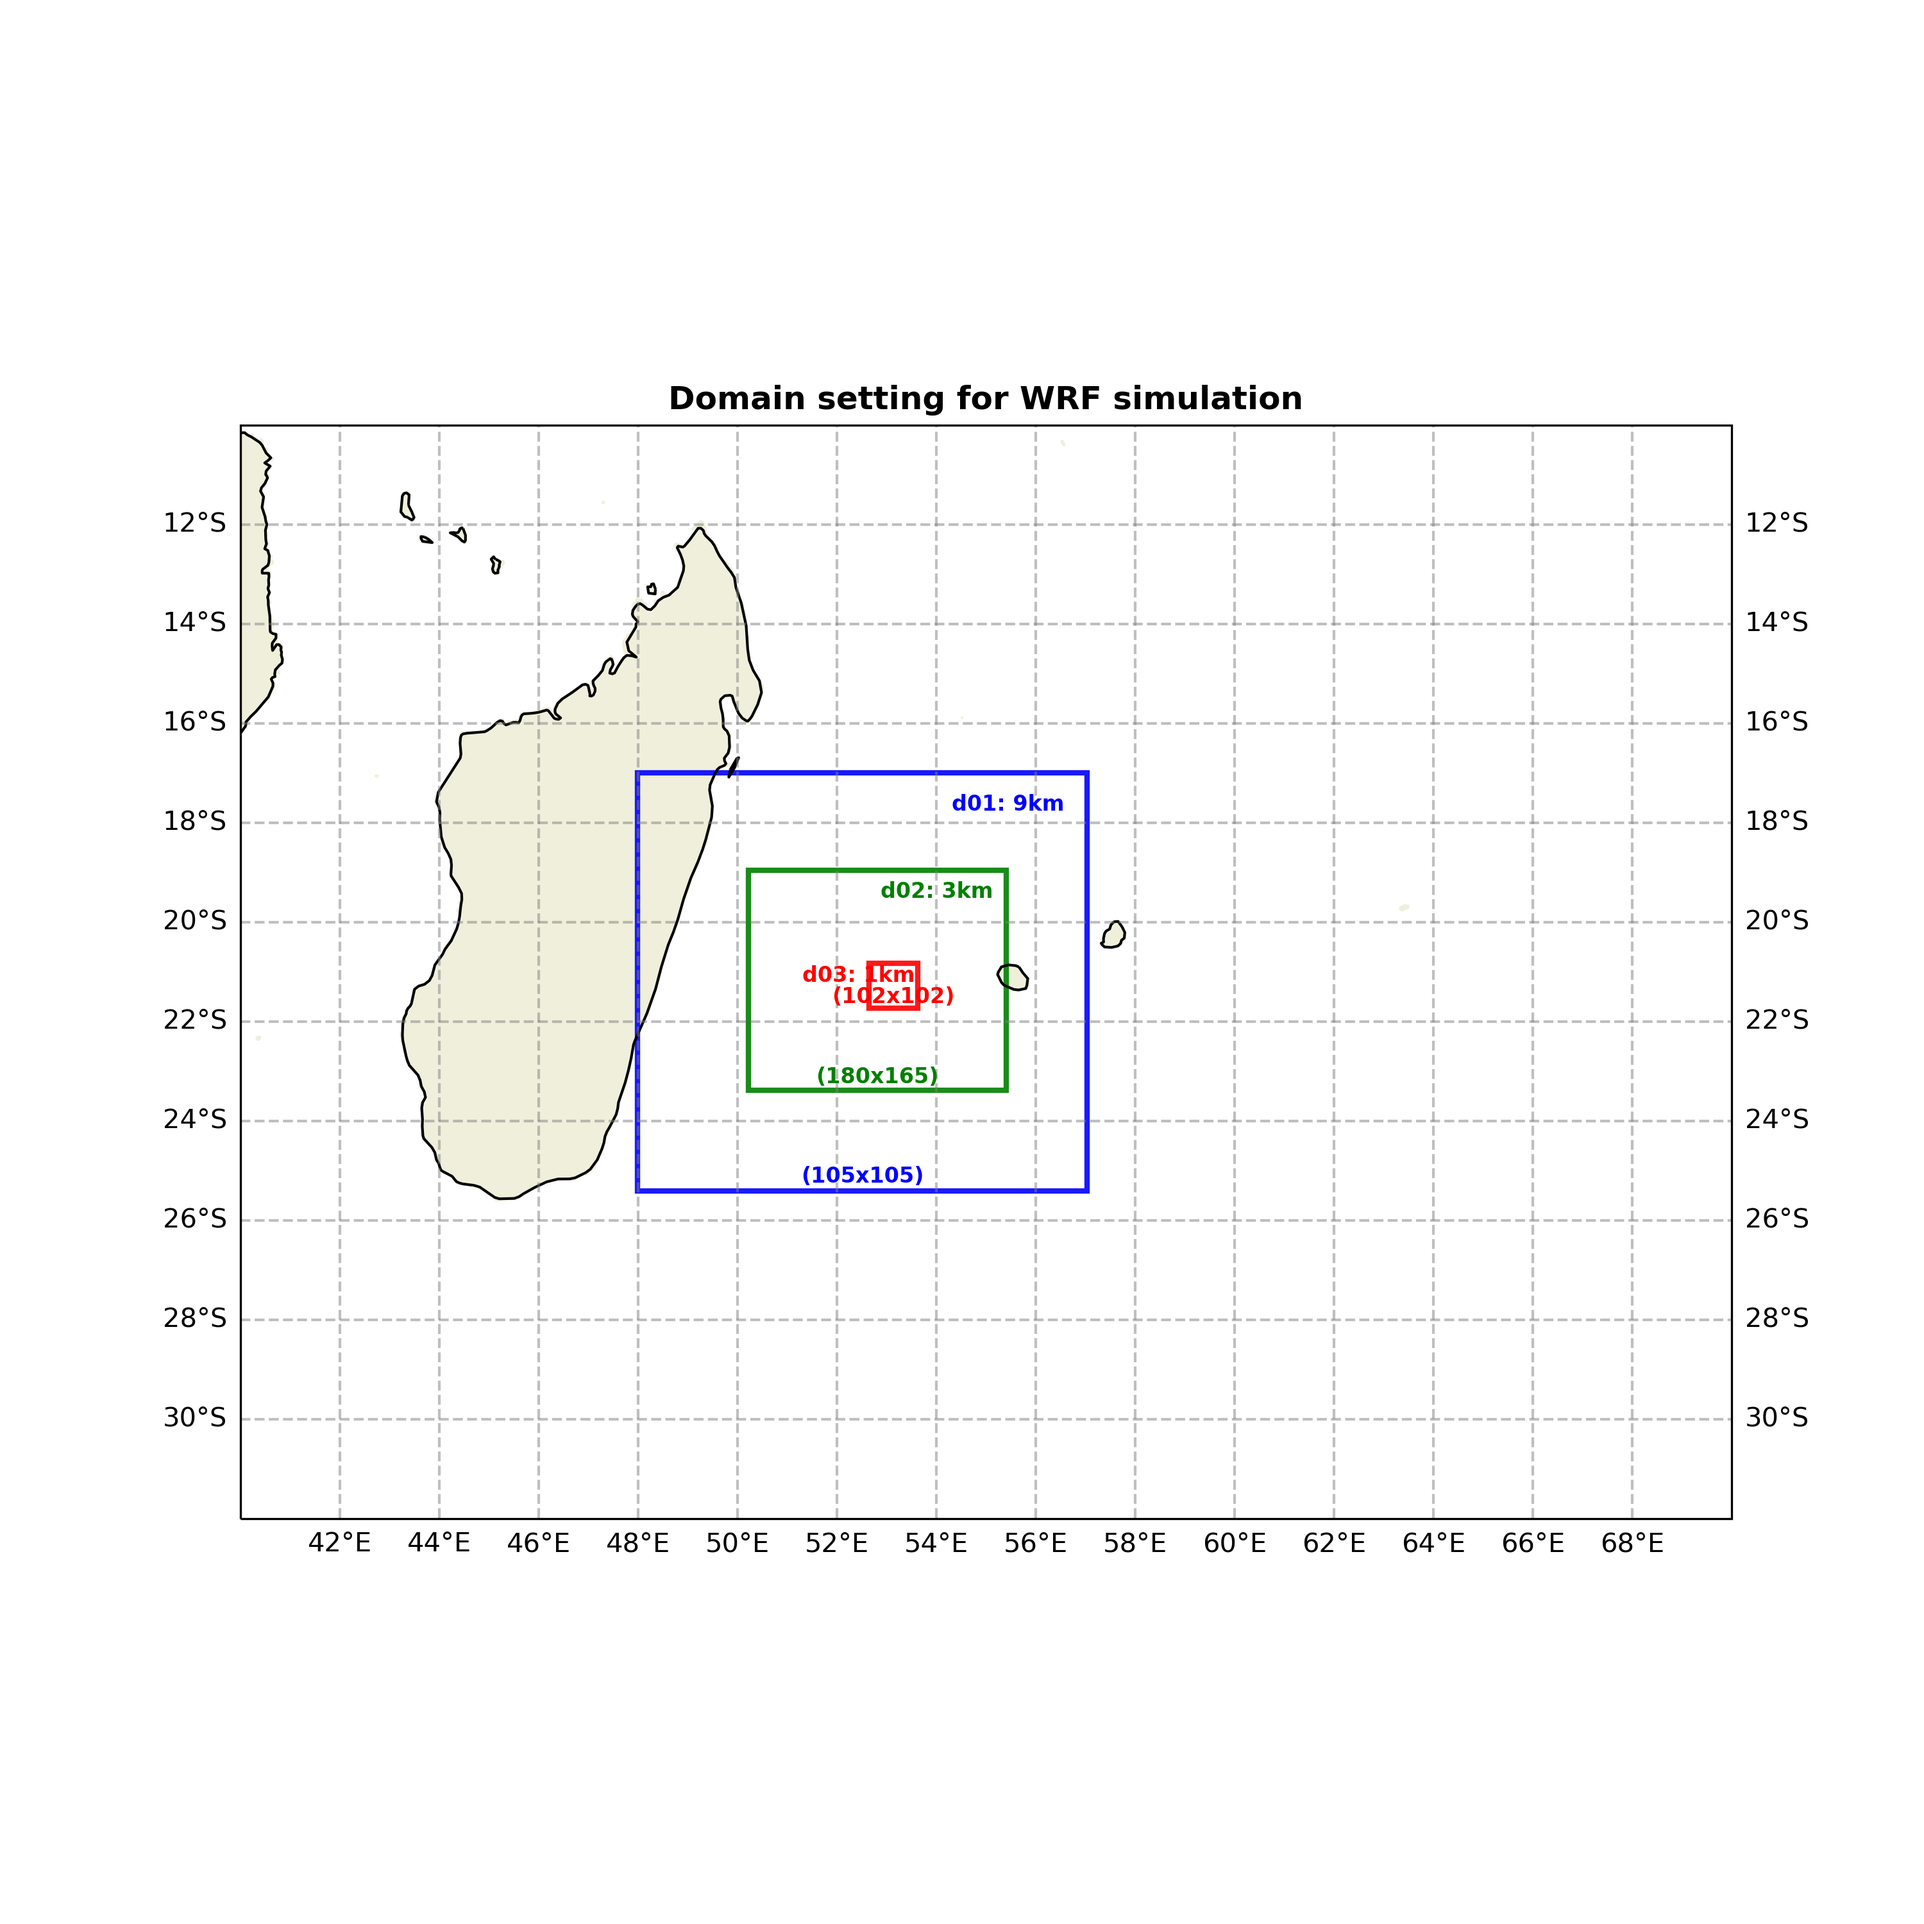
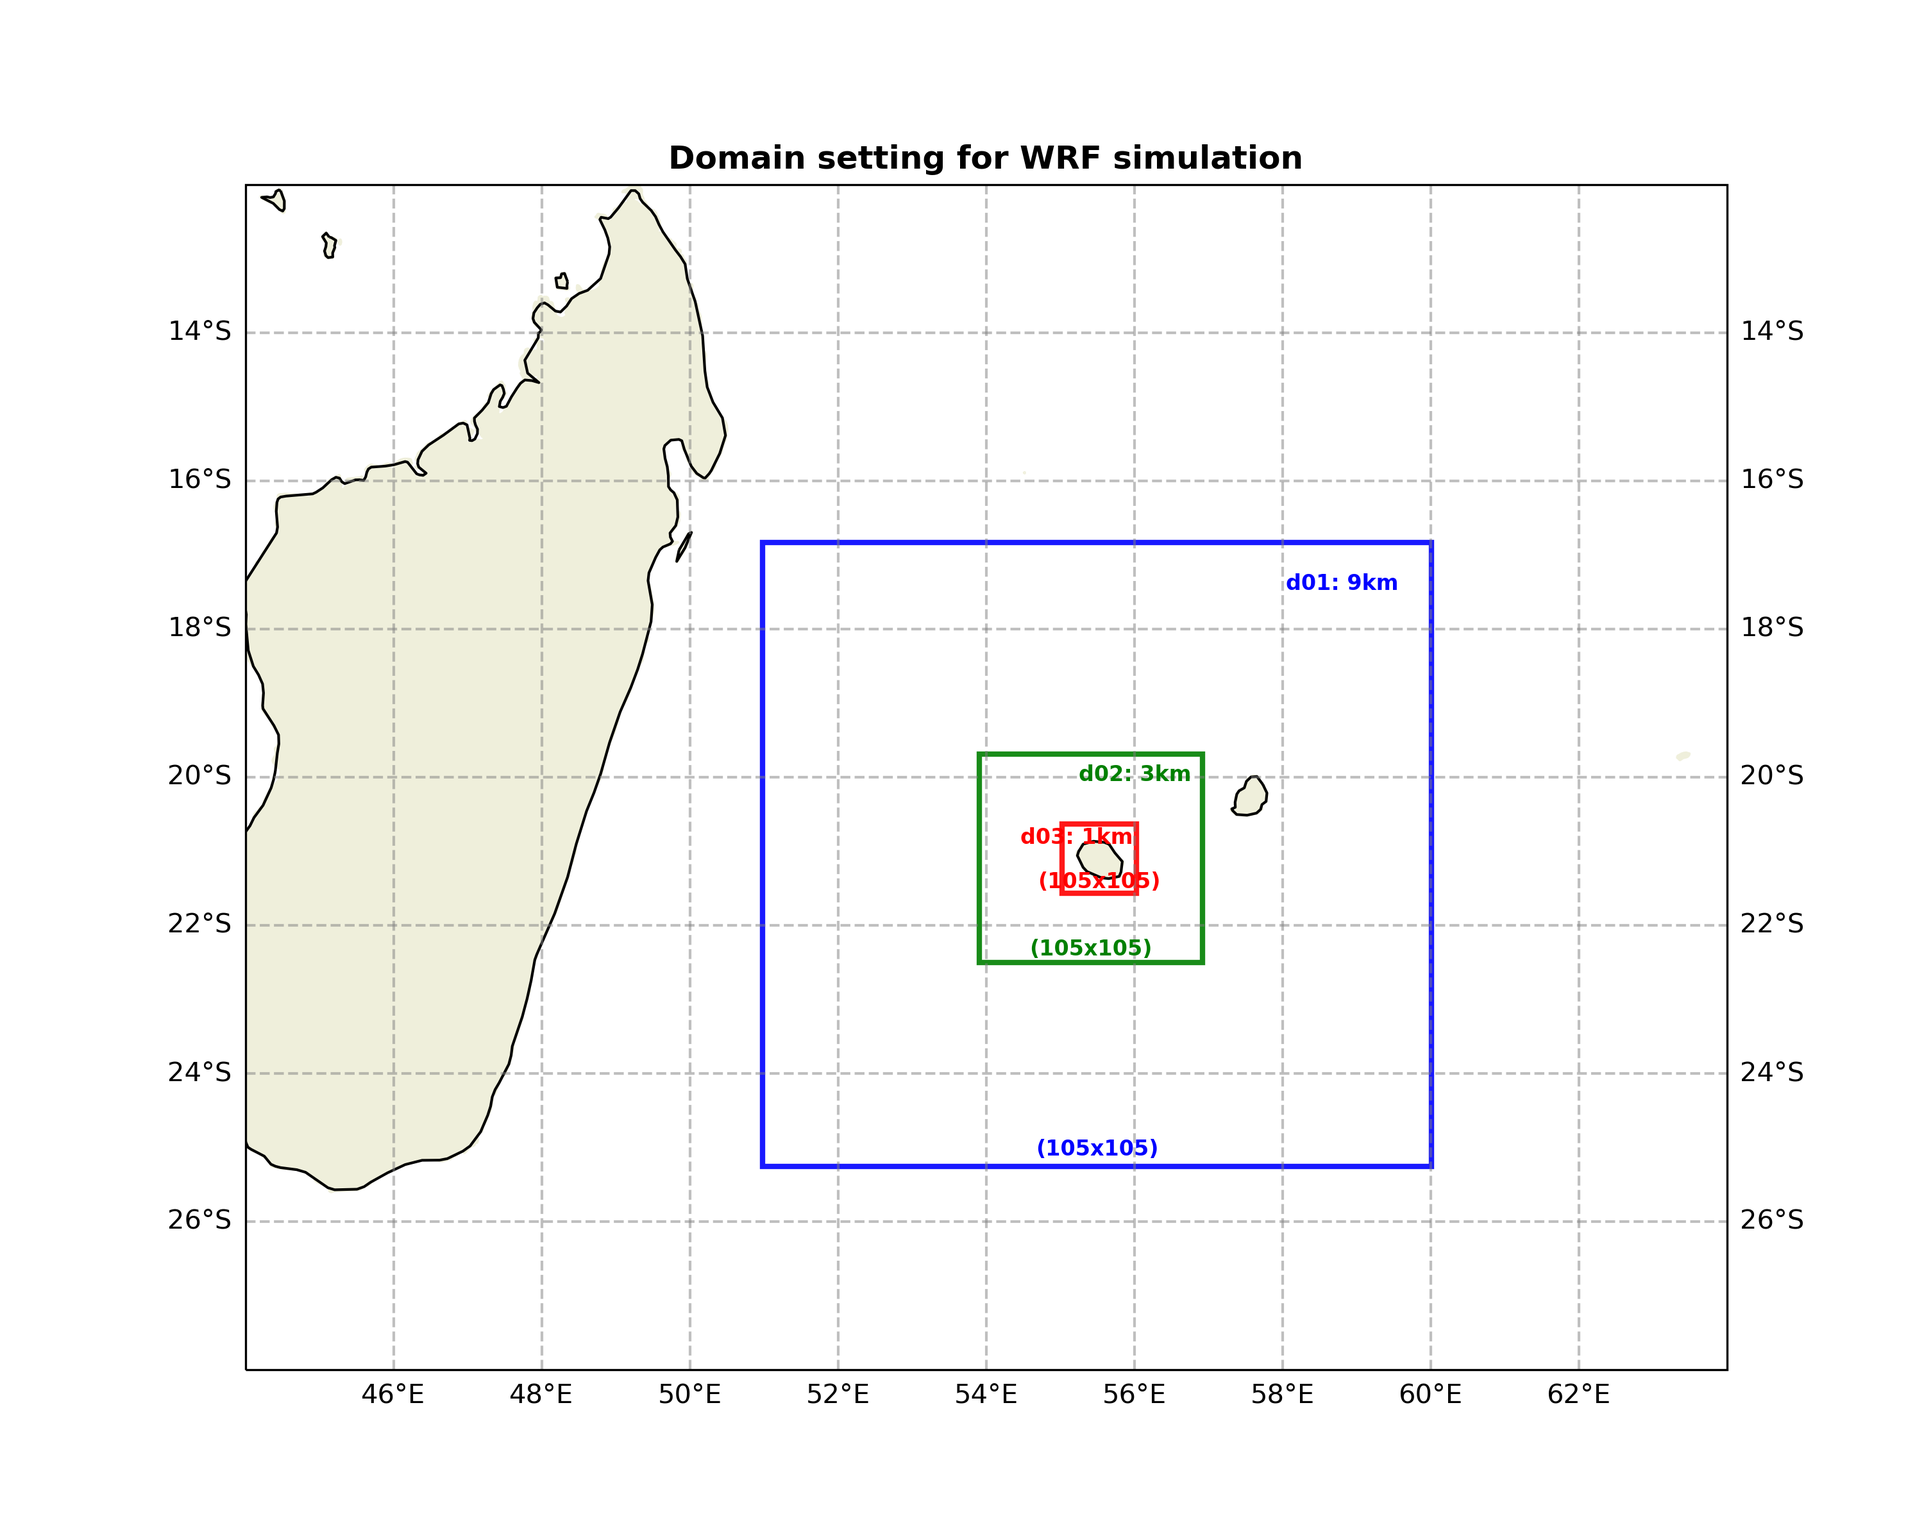
domain is defined

diff --git a/GEO_PLOT.py b/GEO_PLOT.py
@@ -306,7 +306,7 @@ def plot_wrf_domain(num_dom: int, domain_dir: str):
     import matplotlib.ticker as mticker
     from cartopy.mpl.gridliner import LONGITUDE_FORMATTER, LATITUDE_FORMATTER
 
-    fig = plt.figure(figsize=(10, 10), dpi=300)
+    fig = plt.figure(figsize=(10, 8), dpi=300)
     # fig.subplots_adjust(left=0.05, right=0.95, bottom=0.05, hspace=1.5, top=0.95, wspace=0.05)
 
     ax = plt.subplot(111, projection=ccrs.PlateCarree())
@@ -4239,8 +4239,7 @@ def value_lonlatbox_from_area(area: str):
         box = [54.8, 58.1, -21.9, -19.5]
 
     if area == 'detect':
-        box = [40, 70, -32, -10]
-
+        box = [44, 64, -28, -12]
 
     return box
 

diff --git a/detect.py b/detect.py
@@ -9,9 +9,6 @@ __author__ = "ChaoTANG@univ-reunion.fr"
 import os
 import sys
 import hydra
-import numpy as np
-import pandas as pd
-import matplotlib.pyplot as plt
 from omegaconf import DictConfig
 import GEO_PLOT
 
